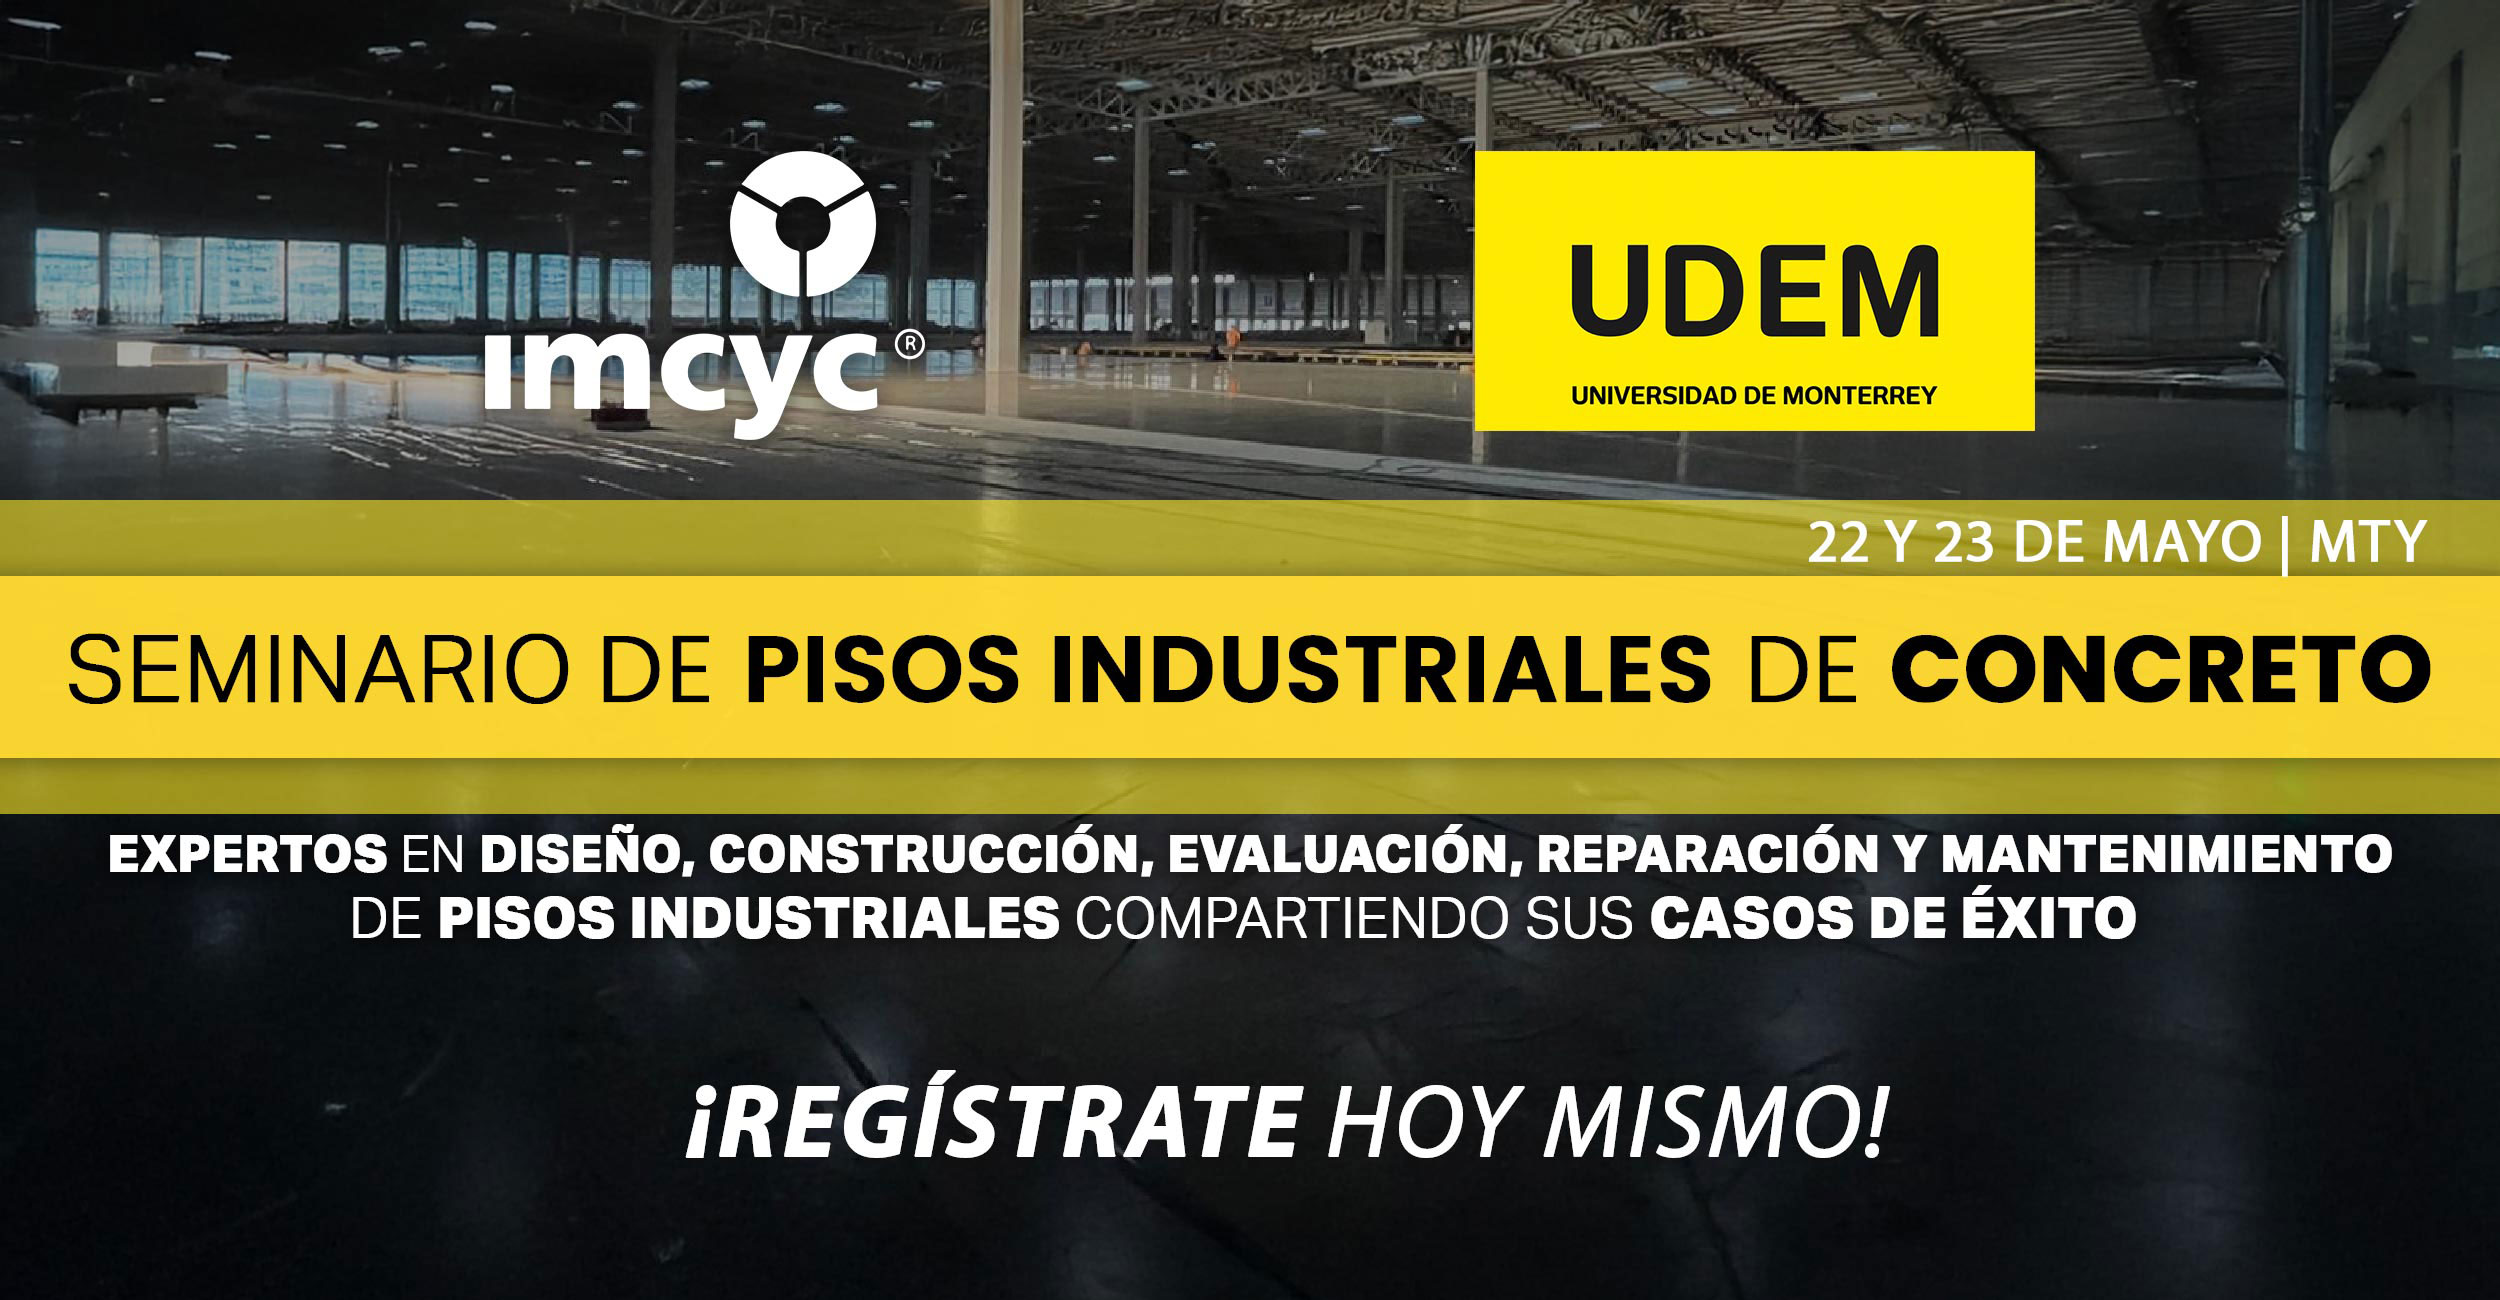
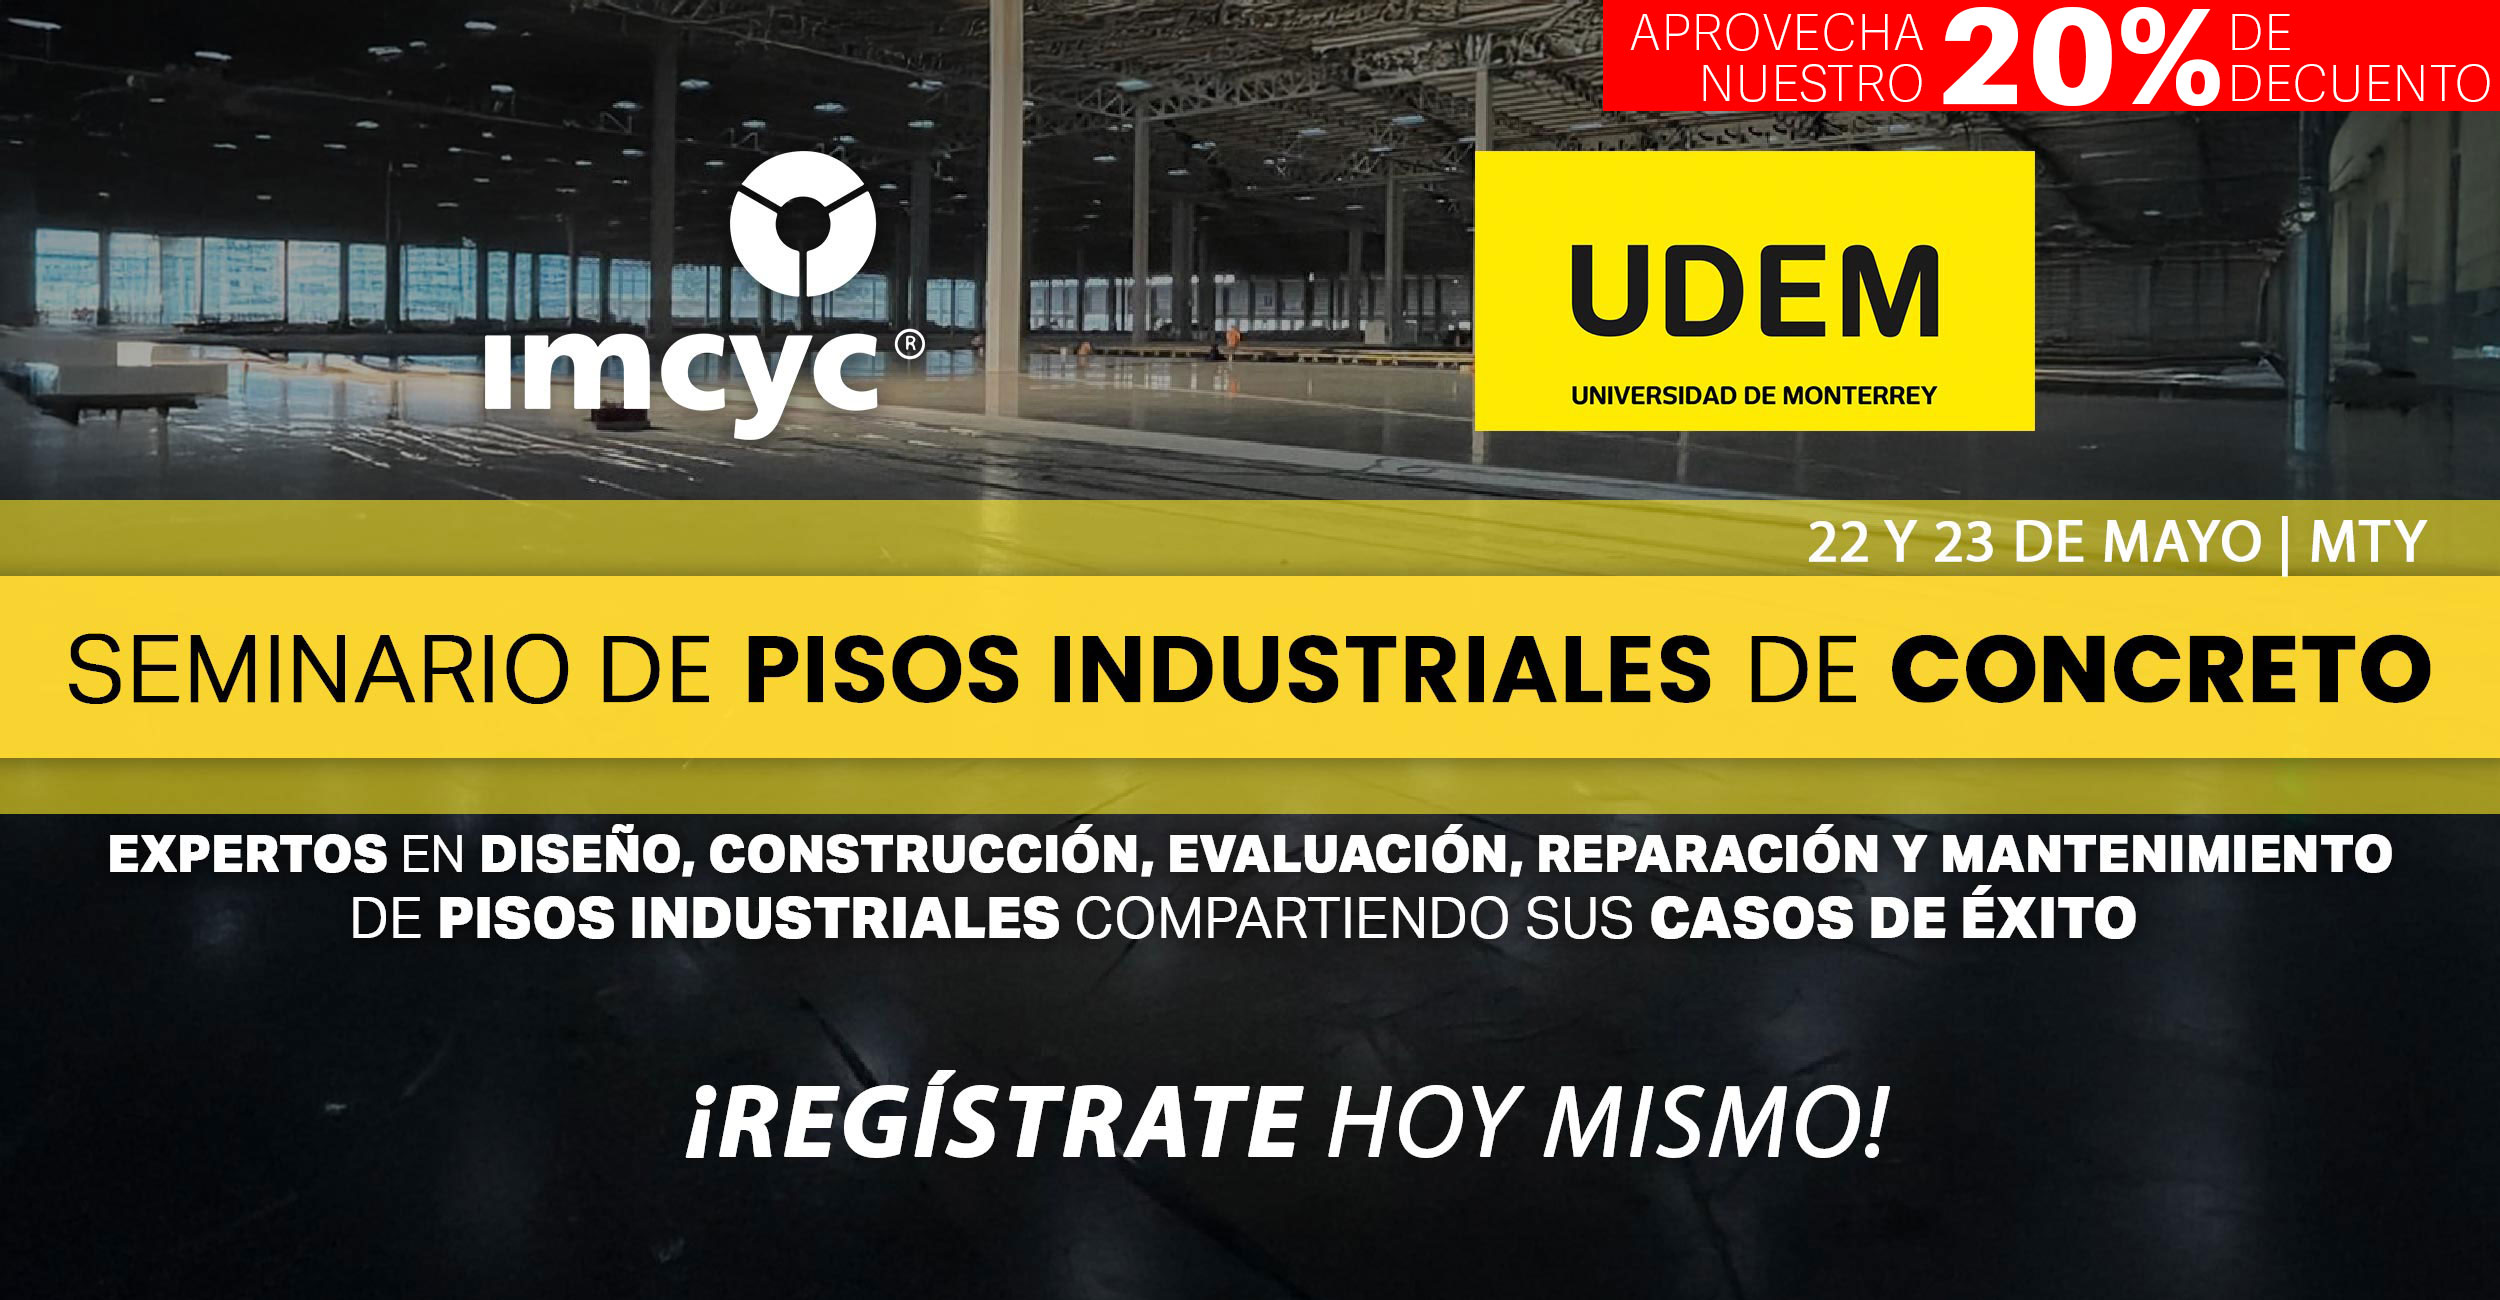
descuento

Changed region(s): [[0.624, 0.0, 1.0, 0.0923]]

diff --git a/src/app/eventos/[evento]/page.tsx b/src/app/eventos/[evento]/page.tsx
@@ -12,14 +12,14 @@ export default function Articulo() {
           <main className="flex flex-col gap-8 row-start-2 items-center sm:items-start z-0 w-full">
             <div className="grid grid-cols-[1fr] sm:grid-cols-[1fr] gap-0 items-center justify-items-stretch pt-20 w-full">
               <div className="bg-gray-900 bg-opacity-50 bg-blend-multiply w-full p-5 sm:pl-5 md:pl-5 lg:pl-8 xl:pl-50 sm:mb-5">
-                <h1 className="font-montserrat text-white uppercase text-4xl font-bold">{params.evento.split("-").join(" ")}</h1>
+                <h3 className='font-montserrat text-white bg-red-700 mb-3 text-center text-4xl'>APROVECHA NUESTRO <b>20%</b> DE DESCUENTO</h3>
                 {params.evento === "seminario-pisos-industriales-de-concreto" && (
                   <div className="grid grid-cols-[1fr] sm:grid-cols-[1fr] gap-10">
                     <div className="text-white text-justify">
-                      <p className="text-gray-300 mb-5">El Instituto Mexicano del Cemento y del Concreto | Universidad de Monterrey presentan</p>
-                      <h2 className="font-montserrat mb-7 text-3xl text-center font-bold tracking-tight leading-none text-yellow-300 md:text-4xl lg:text-6xl dark:text-yellow-300">
+                      <p className="text-gray-300 mb-5 text-center">El Instituto Mexicano del Cemento y del Concreto | Universidad de Monterrey presentan</p>
+                      <h1 className="font-montserrat mb-7 text-3xl text-center font-bold tracking-tight leading-none text-yellow-300 md:text-4xl lg:text-6xl dark:text-yellow-300">
                         SEMINARIO
-                      </h2>
+                      </h1>
                       <h3 className="font-montserrat mb-7 text-3xl font-bold text-center tracking-tight leading-none text-white md:text-4xl lg:text-6xl dark:text-yellow-300">PISOS INDUSTRIALES DE CONCRETO</h3>
                       <h2 className="font-montserrat mb-7 text-3xl text-center font-bold tracking-tight leading-none text-yellow-300 md:text-4xl lg:text-6xl dark:text-yellow-300">
                         22 y 23 de mayo de 2025
